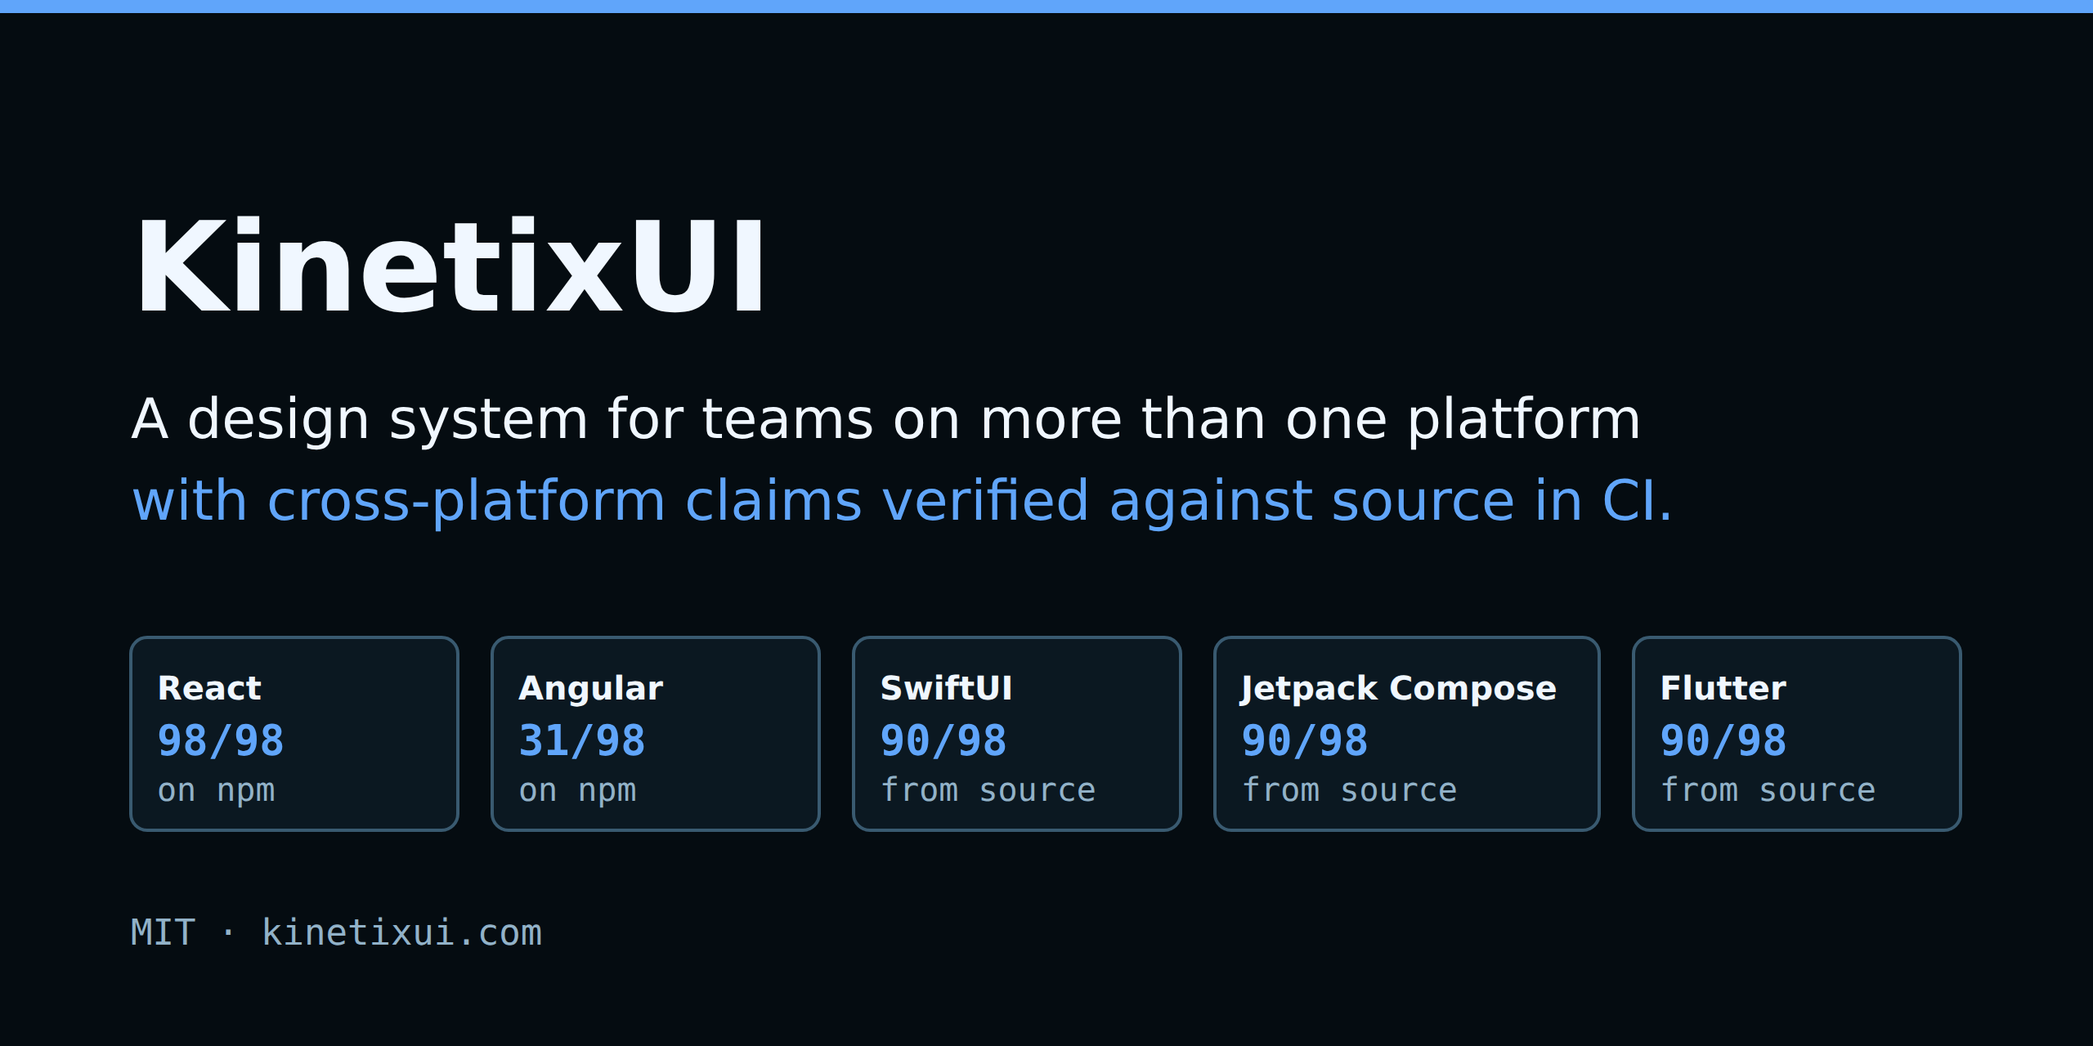
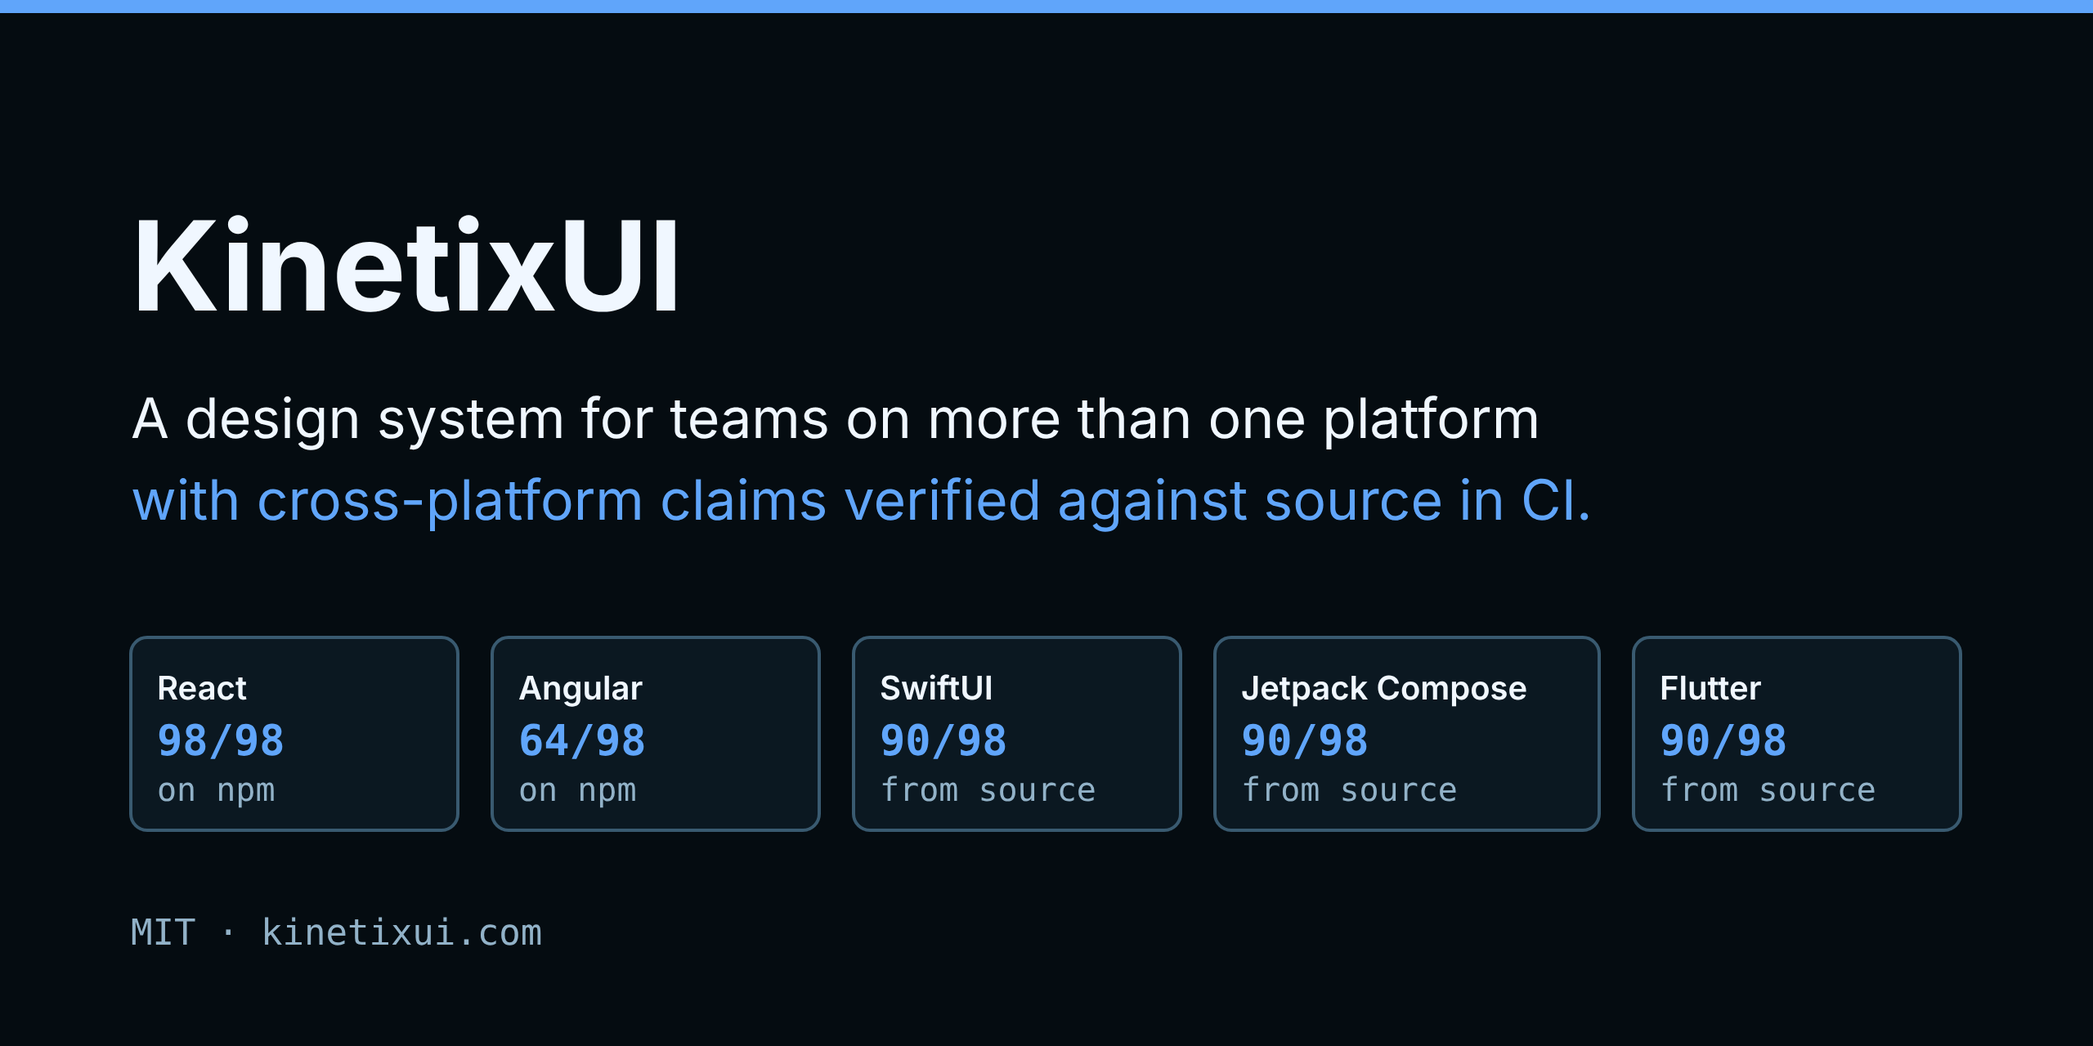
Marketing: reconcile October 7, prepare X-004 and the next 14 days (#328)
* Reconcile October 7 and prepare X-004 and the next 14 days

- Revert LI-005 to ready/planned: the October 7 LinkedIn posts were about IoT
  (author, 2026-10-09). Record them as offCalendar off-001 with the supplied
  URL; unknowns left null. check:distribution rejects an off-calendar entry
  that claims a registered asset.
- Fill PostHog counts for LI-004, X-003 and ART-002 (absolute only), and flag
  that LI-004's five arrivals predate its recorded posting date.
- Correct LI-005 and X-004 metrics-to-watch that /docs/tokens cannot emit.
- Revise X-004 copy to cover canonical tokens plus native implementations.
- Regenerate VIS-006, VIS-008 and the social preview (Angular 31 -> 64/98).
- Bring ART-001 campaign copy back to current truth (Angular 64, six migrated
  demos, current versions) so its own verifiers pass; LI-008 RTL wording.

Claude-Session: https://claude.ai/code/session_0182efg9z9uepRRXMqDgA9Je

* Align ART-001 tracking links with the content register

The a01 package told the author to tag the dev.to CTA with utm_medium=community
and no utm_content, while ART-001's built URL in register.json (validated by
check:distribution, and used by ART-002) is referral + art_primary.

Claude-Session: https://claude.ai/code/session_0182efg9z9uepRRXMqDgA9Je

* Refresh ART-001 snippet-migration figures to today's count

Codex review: the section dated 2026-10-09 still carried the 2026-09-24
snippet counts (101 demos, five compiled). Re-counted with the
[…]

diff --git a/marketing/content/drafts/a01/sources.md b/marketing/content/drafts/a01/sources.md
@@ -5,8 +5,8 @@ here. Re-run `pnpm marketing:stats` on the day of publishing and re-check the
 numbers before posting — they move.
 
 **Numbers verified:** 2026-09-23, against `main` @ `e29184c`, KinetixUI v0.22.1.
-**Current-state figures re-derived:** 2026-09-29, core v0.23.3 with
-`@kinetixui/angular` at 0.24.0 and `@kinetixui/iot` at 0.2.0, each in its own
+**Current-state figures re-derived:** 2026-10-09, core v0.24.0 with
+`@kinetixui/angular` at 0.25.0 and `@kinetixui/iot` at 0.5.0, each in its own
 release cohort. Only the *current* columns moved — every historical figure below
 is tied to a commit and is unchanged.
 
@@ -19,7 +19,7 @@ From `pnpm marketing:stats` (reads `platform-parity.json` and
 | --- | --- | --- |
 | 98 catalogue entries (97 components + 1 documented recipe) | 98 | `components.manifest.json` |
 | React | 98 / 98 | `platform-parity.json` → `coverage` |
-| Angular (preview) | 31 / 98 | same, `platformDefinitions.Angular.maturity = "preview"` |
+| Angular (preview) | 64 / 98 | same, `platformDefinitions.Angular.maturity = "preview"` |
 | SwiftUI | 90 / 98 | same |
 | Jetpack Compose | 90 / 98 | same |
 | Flutter | 90 / 98 | same |
@@ -192,10 +192,10 @@ before trusting any tooling that "found nothing".
 
 ---
 
-# Current repository state — 2026-09-29
+# Current repository state — 2026-10-09
 
-Use this for the "ours, today" paragraph. Core v0.23.3 MIT, with
-`@kinetixui/angular` at 0.24.0 and `@kinetixui/iot` at 0.2.0. Re-run
+Use this for the "ours, today" paragraph. Core v0.24.0 MIT, with
+`@kinetixui/angular` at 0.25.0 and `@kinetixui/iot` at 0.5.0. Re-run
 `pnpm marketing:stats` before publishing — these move:
 
 | | |
@@ -203,40 +203,43 @@ Use this for the "ours, today" paragraph. Core v0.23.3 MIT, with
 | Catalogue entries | 98 — 97 components + 1 documented recipe (`combobox`) |
 | Lifecycle | 97 stable, 1 beta |
 | React | 98 / 98 |
-| Angular | 31 / 98 — **preview**, `catalogComplete: false` |
+| Angular | 64 / 98 — **preview**, `catalogComplete: false` |
 | SwiftUI | 90 / 98 |
 | Jetpack Compose | 90 / 98 |
 | Flutter | 90 / 98 |
 | On all four catalogue-complete platforms | **90 / 98** |
 | Documented exceptions | 8 |
 | Blocks | 20, on all five platforms |
-| npm | `ui`, `cli`, `tokens` at 0.23.3; `angular` at **0.24.0 — published, still preview**; `iot` at 0.2.0 — each non-core package versioned independently |
+| npm | `ui`, `cli`, `tokens` at 0.24.0; `angular` at **0.25.0 — published, still preview**; `iot` at 0.5.0 — each non-core package versioned independently |
 
-Snippet migration, counted directly (not covered by `marketing:stats`):
+Snippet migration, counted directly (not covered by `marketing:stats`). Re-counted 2026-10-09 with the
+parser in `verify-package.mjs` (top-level demo keys; `swift`/`kotlin`/`dart` keys as native snippets):
 
 | | |
 | --- | --- |
-| Demo keys carrying native code | 101 |
-| With ≥1 native snippet from a compiled file | **5** (`button`, `badge`, `switch`, `chart`, `direction-provider`) |
-| Compiled native snippets | 13 |
-| Still hand-written in `platform-code.ts` | 97 keys / **290 snippets** |
-| Angular examples, all compiler-extracted | 33 |
+| Demo keys carrying native code | 102 |
+| With ≥1 native snippet from a compiled file | **6** (`badge`, `button`, `chart`, `direction-provider`, `switch`, and the `icons-dismiss-icon` demo) |
+| Compiled native snippets | 16 |
+| Still hand-written in `platform-code.ts` | 97 keys / **282 snippets** |
+| Generated examples carrying Angular code | 67 |
 
 The article's migration line is the fastest-ageing sentence in the piece. It read
-"three of a hundred" at the 2026-09-23 freeze and is **five** as of 2026-09-24 —
-one day, one change. `verify-package.mjs` now fails the package when it drifts
-again, so this does not have to be caught by eye.
+"three of a hundred" at the 2026-09-23 freeze, **five** as of 2026-09-24, and **six** as of 2026-10-09.
+`verify-package.mjs` fails the package when it drifts again, so this does not have to be caught by eye.
+The earlier rows (101 demo keys, 13 compiled snippets, 290 hand-written, 33 Angular) were counted on
+2026-09-24 and may have used a different counting rule for snippets; the 2026-10-09 figures are the ones to
+quote.
 
 ## Historical vs current — never mix these
 
 The article quotes the audit *as it stood*, in past tense, tied to commits.
 Current figures appear only in the "ours, today" paragraph.
 
-| Figure | Historical (commit) | Current (`dfd0d81`) |
+| Figure | Historical (commit) | Current (`0450908`, 2026-10-09) |
 | --- | --- | --- |
 | SwiftUI · Compose · Flutter | 91 · 90 · 91 (`34e5b06~1`) | 90 · 90 · 90 |
 | On all four | 90 (`34e5b06~1`) | 90 |
-| Snippets in `platform-code.ts` | 300 (`c3de388~1`) | 290 |
+| Snippets in `platform-code.ts` | 300 (`c3de388~1`) | 282 (re-counted 2026-10-09) |
 | Symbols used SwiftUI/Compose/Flutter | 164 / 182 / 175 (`c3de388~1`) | not re-counted; 0 unknown |
 | Unknown Compose symbols | 3 (`c3de388~1`) | 0 |
 | Demo keys from compiled source | 0 | 5 |

diff --git a/marketing/measurement/OCTOBER-7-RECONCILIATION.md b/marketing/measurement/OCTOBER-7-RECONCILIATION.md
@@ -1,0 +1,66 @@
+---
+type: records reconciliation
+date: 2026-10-09
+scope: what went out on LinkedIn on 2026-10-07, and the three earlier rows that still had no counts
+---
+
+# October 7 reconciliation
+
+## What the records said
+
+PR #321 (merged 2026-10-07, `efb1a82`) recorded **LI-005** — *The boundary, and the copies nobody maintains*,
+pillar B, `kx_p2_b_token_boundary` → `/docs/tokens` — as published on 2026-10-07, with the live URL
+`https://lnkd.in/p/dafq4fNP` and a posting time of "before 13:58 UTC".
+
+## What the evidence says
+
+| Source | What it shows |
+| --- | --- |
+| The 2026-10-07 close-out thread | The author wrote "today's post published" without naming the post. The close-out took the asset from the calendar slot (day 9 → LI-005). The post's content was never compared with LI-005's copy. The URL arrived later as "Today post is published", again without naming it |
+| The author, 2026-10-09 | The October 7 LinkedIn posts were focused on IoT |
+| PostHog, read 2026-10-09 04:15 UTC | **0** observed sessions before that cutoff carried `kx_p2_b_token_boundary` with `utm_content=li_primary`. On 2026-10-07 and 2026-10-08 there was one session in total; it was direct (no campaign, no LinkedIn referrer) and did not view `/iot` |
+| LinkedIn | Independently inspected in merged PR #326: the short link resolves to an IoT device-state post. Canonical URL and evidence limits are preserved in [the correction](../distribution/october-7-correction.md) |
+
+Zero tracked visits establishes only a lack of observed tagged traffic. It cannot prove non-publication,
+identify a post's subject, or establish whether LI-005 published separately.
+
+## Corrections and additions
+
+1. **LI-005 reconciliation is already handled by merged PR #326.** Keep its content status `ready`,
+   distribution status `blocked`, null date/result and the existing correction record. Separate publication
+   evidence is required before closing it out. This PR does not repeat or override that correction.
+2. **The verified IoT post is recorded separately** in `offCalendar` (`off-001`), using the canonical
+   URL inspected for #326 and the author-supplied October 7 date. Exact times, total post count and
+   attribution remain null. No registered asset is inferred.
+3. **Two metrics-to-watch that could not fire were corrected.** LI-005's was `adopt_tokens on /docs/tokens`,
+   but `adopt_tokens` is a homepage CTA target and `/docs/tokens` never emits it. X-004's was the
+   `platform_selected` spread, but `/docs/tokens` has no platform switcher (`tokens-page.test.tsx` asserts
+   this). Both now name signals the landing page and its next click can actually produce.
+
+## Counts filled in for the earlier rows
+
+As of 2026-10-09 04:15 UTC, read from PostHog. Absolute counts only (`../analytics.md` §10).
+
+| Asset | Tagged sessions | Qualified Evaluation | Adoption Intent | Note |
+| --- | --- | --- | --- | --- |
+| LI-004 | 5 | 0 | 0 | All five began 18:31–18:34 UTC on **2026-10-02**, a day before the recorded posting date. Four began within the same second, which looks like automated link previews (inferred). Posting date left as recorded until the author confirms |
+| X-003 | 0 | 0 | 0 | Replies (its metric to watch) are not readable from here |
+| ART-002 | 0 | 0 | 0 | dev.to's own view counts are not readable from here |
+
+**What these counts cannot see.** `respect_dnt` is on and ad blockers drop PostHog, so every count is a
+floor. A post with no tagged link arrives as `direct` unless the browser sends a LinkedIn or X referrer.
+
+## Process lesson
+
+The close-out recorded an asset from the calendar slot, not from what was posted. A close-out should name the
+asset back to the author ("LI-005, *The boundary…*?") before writing `published`, and an unplanned post goes in
+`offCalendar` rather than in the nearest calendar row.
+
+## Final review cross-check
+
+Requeried the historical window 2026-09-01 00:00 UTC through 2026-10-09 04:15 UTC,
+end-exclusive, production host kinetixui.com, nonempty session IDs, attribution on any event in the session.
+LI-004: 5 tagged sessions, 0 QE, 0 AI; first sessions 2026-10-02 18:31:49–18:33:25 UTC.
+Those sessions emitted 5 $pageview and 5 docs_viewed events. No matching rows for X-003,
+ART-002 or LI-005 campaign/content pairs. This supports bounded traffic observations only.
+X-004: all five posts fit 280 characters with URLs counted as 23, including each numbered prefix.

diff --git a/marketing/content/x.md b/marketing/content/x.md
@@ -34,29 +34,47 @@ piece of writing about that idea, not a shortened copy — the register records 
 
 ## X-004 · NEUTRAL · Pillar B · Thread (5)
 
-**Campaign:** `kx_p2_b_token_boundary` · **Destination:** `/docs/tokens` · **Visual:** VIS-003
+**Campaign:** `kx_p2_b_token_boundary` · **Destination:** `/docs/tokens` · **Visual:** VIS-003 (post 1 only)
 
-> **1/** Design tokens have a boundary problem.
+> **1/** Design tokens have a boundary problem: they stop at the web.
 >
-> They stop at the web.
+> JSON → build step → CSS variables. Then iOS needs the same values, so someone copies them into Swift.
+> Android gets Kotlin. Flutter gets Dart.
 >
-> **2/** The usual pipeline: JSON → build step → CSS custom properties. Genuinely good. Solves the web.
+> Three copies, made once, maintained never.
 >
-> Then iOS needs the same numbers. Someone copies them into Swift. Android gets Kotlin. Flutter gets Dart.
+> **2/** The copies don't drift because people are careless. They drift because nothing connects them.
 >
-> **3/** Three copies, made once, maintained never.
+> The fix is one canonical source: one set of DTCG token files, a generator per platform, and the generated
+> Swift, Kotlin, Dart and CSS committed so every change shows up in review.
 >
-> Your "single source of truth" is now a single source of truth for one of four platforms.
+> **3/** A shared token source is not a shared component source, though.
 >
-> **4/** They don't drift from carelessness. They drift because nothing connects them. A value changed on
-> the web has no route to a Kotlin constant.
+> Tokens are values. They generate cleanly.
 >
-> **5/** Fix is boring: treat native outputs as build artifacts, not files people edit. One source, a
-> generator per target, generated files committed so the diff shows up in review.
+> Components are behaviour: focus, gestures, scrolling, accessibility APIs. Each platform already has an
+> opinion about those, and it's usually the right one.
 >
-> Change once, all four move in one commit.
+> **4/** So KinetixUI splits it:
 >
-> https://kinetixui.com/docs/tokens
+> Tokens are generated from one source.
+> Components are written natively per platform against a shared contract: SwiftUI views, Compose
+> composables, Flutter widgets, Angular directives, React components.
+>
+> CI fails any platform claim without real source.
+>
+> **5/** Start with the token contract: every platform's generated output, plus Button built on those tokens
+> in all five frameworks.
+>
+> React installs from npm; Angular does too, in preview. SwiftUI, Compose and Flutter are source you build
+> today.
+>
+> https://kinetixui.com/docs/tokens?utm_source=x&utm_medium=social&utm_campaign=kx_p2_b_token_boundary&utm_content=x_thread
+
+Claims used: A1 with A2 in the same thread (post 2, post 4), A3 (post 4), B1 (post 4), C2 and C3 with their
+qualifiers (post 5). Every post is under 280 characters with the link counted as 23. Revised 2026-10-09 so the
+thread also covers why native implementations still matter and where to start; the campaign, destination and
+tagged URL are unchanged.
 
 ---
 

diff --git a/marketing/content/drafts/a01/publish-checklist.md b/marketing/content/drafts/a01/publish-checklist.md
@@ -10,7 +10,7 @@ Work top to bottom on publication day. Nothing here is automated, and nothing
 should be: every step is a human deciding the claim still holds.
 
 **Editorial freeze:** 2026-09-23, against `main` @ `e29184c`, v0.22.1.
-**Volatile facts re-derived:** 2026-09-30, v0.23.3 core / `@kinetixui/angular` 0.24.0 / `@kinetixui/iot` 0.2.0.
+**Volatile facts re-derived:** 2026-10-09, v0.24.0 core / `@kinetixui/angular` 0.25.0 / `@kinetixui/iot` 0.5.0.
 **Current-state figures re-derived:** 2026-09-30, `main` @ `e289c14`.
 Anything below marked ⏱ ages and must be re-derived.
 
@@ -25,9 +25,9 @@ to eyeball. `verify-evidence.mjs` covers the historical claims against git.
 - [ ] Re-run the snippet audit (`sources.md` → "Current state") for migrated vs
       hand-written counts
 - [ ] Compare each against the article. **Most likely to have moved:**
-  - [ ] "Five of a hundred-odd demo examples" — article + X 9 + LinkedIn B
+  - [ ] "Six of a hundred-odd demo examples" — article + X 9 + LinkedIn B
   - [ ] "98 catalogue entries — 97 components and one documented recipe. React
-        98, SwiftUI 90, Compose 90, Flutter 90, Angular 31"
+        98, SwiftUI 90, Compose 90, Flutter 90, Angular 64"
   - [ ] "90 of 98 … 8 documented exceptions"
 - [ ] Angular still `maturity: "preview"` and `catalogComplete: false`
 - [x] `@kinetixui/angular` shipped on 2026-09-27 (0.24.0, still preview). As this
@@ -67,7 +67,8 @@ past tense. See `sources.md`.
 - [ ] `<DEV_ARTICLE_URL>` → the real URL in `linkedin.md` (A and B) and
       `x-thread.md` (post 9)
 - [ ] Append the campaign parameters from `measurement.md` per channel
-      (LinkedIn/X: `utm_medium=social`; DEV CTA: `utm_medium=community` —
+      (paste each asset's built `url` from `../../register.json`: DEV CTA
+      `utm_medium=referral&utm_content=art_primary`, LinkedIn/X `utm_medium=social` —
       `article` is not an accepted medium and is silently replaced)
 - [ ] Do **not** add campaign parameters to the DEV article URL itself — it is
       not our property and our parser never sees those hits

diff --git a/marketing/content/drafts/a01/measurement.md b/marketing/content/drafts/a01/measurement.md
@@ -48,7 +48,13 @@ what PostHog will actually receive. Not inferred — executed.
 | --- | --- | --- |
 | LinkedIn | `https://kinetixui.com/docs/platforms?utm_source=linkedin&utm_medium=social&utm_campaign=kx_p1_a_parity_proof` | `kx_source: linkedin`, `kx_medium: social`, `kx_campaign: kx_p1_a_parity_proof` |
 | X | `https://kinetixui.com/docs/platforms?utm_source=x&utm_medium=social&utm_campaign=kx_p1_a_parity_proof` | `kx_source: x`, `kx_medium: social`, `kx_campaign: kx_p1_a_parity_proof` |
-| DEV article CTA | `https://kinetixui.com/docs/platforms?utm_source=devto&utm_medium=community&utm_campaign=kx_p1_a_parity_proof` | `kx_source: devto`, `kx_medium: community`, `kx_campaign: kx_p1_a_parity_proof` |
+| DEV article CTA | `https://kinetixui.com/docs/platforms?utm_source=devto&utm_medium=referral&utm_campaign=kx_p1_a_parity_proof&utm_content=art_primary` | `kx_source: devto`, `kx_medium: referral`, `kx_campaign: kx_p1_a_parity_proof`, `kx_content: art_primary` |
+
+**2026-10-09:** the DEV row now matches ART-001's built URL in `../../register.json`, which
+`check:distribution` validates and which ART-002 already used (`utm_medium=referral`, `utm_content=art_primary`).
+The earlier `community` medium was valid but disagreed with the register, so the distribution row could not have
+recorded it. The LinkedIn and X rows above predate `utm_content`; paste the register's built URLs for LI-001 and
+X-001 instead (`utm_content=li_primary` / `x_thread`).
 
 All three also carry `kx_landing_page: /docs/platforms`.
 

diff --git a/marketing/content/drafts/a01/article.md b/marketing/content/drafts/a01/article.md
@@ -181,8 +181,8 @@ KinetixButton(onClick = save) {
 ```
 
 One file. The compiler sees it, the website quotes it, a drift check fails if
-they disagree. Five of a hundred-odd demo examples now take their native code
-that way. Saying "five" is more useful than saying "we're migrating."
+they disagree. Six of a hundred-odd demo examples now take their native code
+that way. Saying "six" is more useful than saying "we're migrating."
 
 ## The same failure, one layer up
 
@@ -220,7 +220,7 @@ Whether you are evaluating a design system or maintaining one:
    what the denominator excludes.
 
 Ours, today: 98 catalogue entries — 97 components and one documented recipe.
-React 98, SwiftUI 90, Jetpack Compose 90, Flutter 90, and Angular 31 —
+React 98, SwiftUI 90, Jetpack Compose 90, Flutter 90, and Angular 64 —
 explicitly in preview. 90 of 98 on all four catalogue-complete platforms, with
 8 documented exceptions that each carry a written reason. Angular sits outside
 that denominator because its catalogue is deliberately incomplete; folding it in

diff --git a/marketing/content/linkedin.md b/marketing/content/linkedin.md
@@ -188,7 +188,8 @@ built the thing and made the decisions — not as a founder with a growth story.
 >
 > So the published numbers say things like: contrast is gated in CI for everything, accessibility is
 > checked in a real browser across the site and every Storybook story — and direction-aware behaviour
-> testing sits at a handful of components on some platforms and none at all on one.
+> testing runs from most of the catalogue on one platform to a single component on another, and none at
+> all on a third.
 >
 > That last clause is uncomfortable to publish. It's also the only part a reader can act on. "Has RTL
 > support" tells you nothing about whether the component you need has been tested. A fraction tells you the

diff --git a/marketing/content/drafts/a01/x-thread.md b/marketing/content/drafts/a01/x-thread.md
@@ -129,7 +129,7 @@ Mine found five more problems on its first run.
 **9/**
 
 Examples are migrating into files CI compiles, with the site quoting the
-extracted region. Five of a hundred-odd so far.
+extracted region. Six of a hundred-odd so far.
 
 Current coverage is generated from the manifest — edit it by hand and the build
 fails.

diff --git a/marketing/content/drafts/a01/linkedin.md b/marketing/content/drafts/a01/linkedin.md
@@ -99,7 +99,7 @@ three fictional.
 About 1% fiction — enough to publish an API that had never existed.
 
 Those examples are moving into files our CI compiles, with the site quoting the
-extracted region. Five of a hundred-odd so far.
+extracted region. Six of a hundred-odd so far.
 
 Writeup: <DEV_ARTICLE_URL>
 
